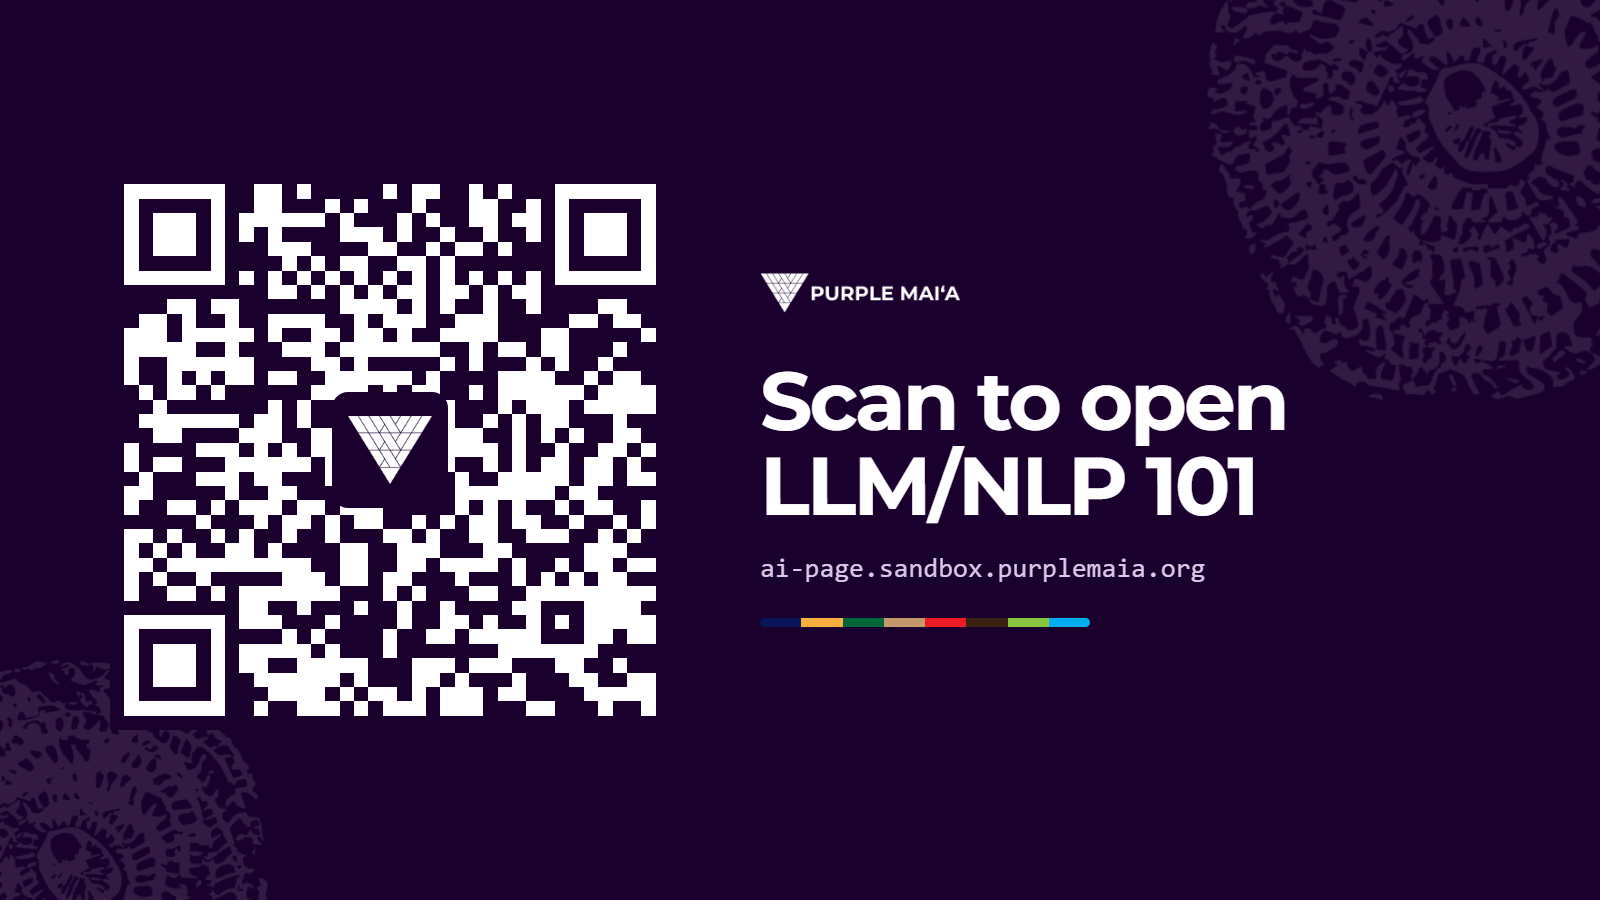
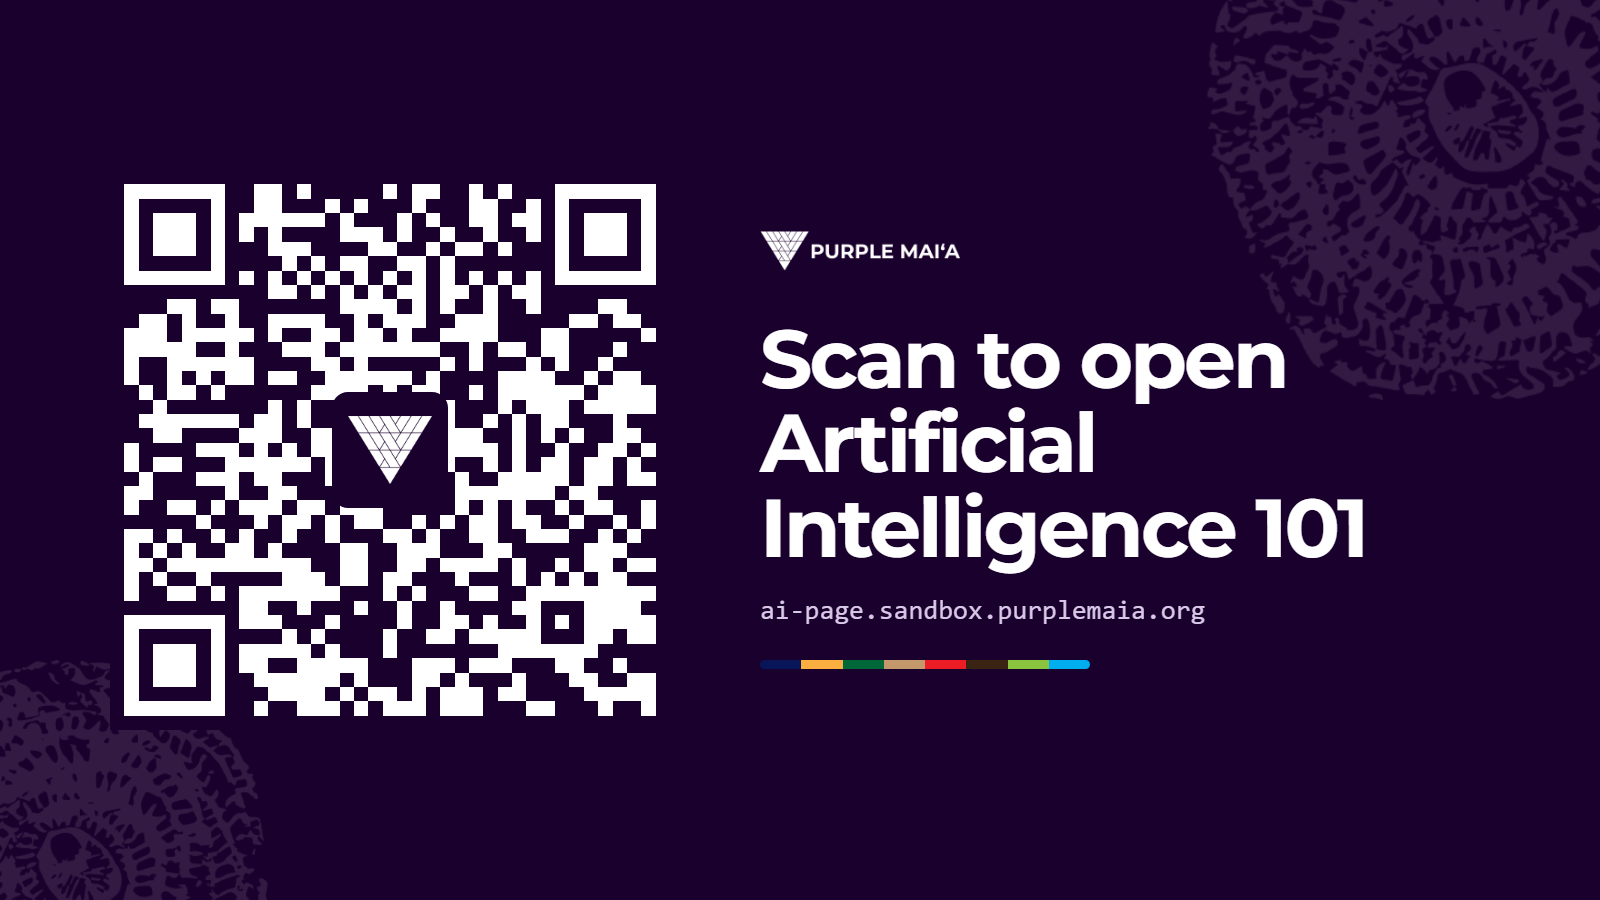
Call the course Artificial Intelligence 101 everywhere
content.js already said "Artificial Intelligence 101" and app.js writes
that into the browser tab, while the static <title>, og:title,
twitter:title and both JSON-LD names still said "LLM/NLP 101". The tab
said one name and every crawler and social preview said another.

Keneth's call: Artificial Intelligence 101. So the eight places in
index.html, the README heading, and the hard-coded fallback in the
feedback mail subject, which is now read from event.shortName the same
way the rest of the page reads it.

The two generated assets carried the old name as rendered pixels, so
both were rebuilt from their sources rather than left to contradict the
page:

  assets/social.png    the og:image. The longer name wraps to two
                       lines and still sits inside the frame
  assets/qr-slide.png  three lines now, same

Both QR images were rescanned afterwards with tools/check-qr.js and
still resolve to the canonical URL. The URL did not change, so qr.svg
and qr.png carry no text and were left alone.

Two dead links went with it, both left by the rebuild: the Resources
entries for the animations and the scripts still pointed at #lessons,
which was the lesson grid. They point at #/ now, the module list. A
third, ctaSecondaryAlt -> #practice, is config the rebuild no longer
renders at all; left in place rather than guessed at.

Not changed, and worth knowing:

  assets/llm-nlp-101.pdf  the filename, and the deck's own slides, both
[…]

Changed region(s): [[0.4688, 0.2489, 0.875, 0.7467]]

diff --git a/index.html b/index.html
@@ -3,7 +3,7 @@
 <head>
 <meta charset="utf-8">
 <meta name="viewport" content="width=device-width, initial-scale=1, viewport-fit=cover">
-<title>LLM/NLP 101 — Purple Maiʻa</title>
+<title>Artificial Intelligence 101 — Purple Maiʻa</title>
 <meta name="description" content="A 101-level walkthrough of what an LLM is, how it generates a response, and where it falls short. Three modules, free and public, no login.">
 <meta name="color-scheme" content="light dark">
 <meta name="theme-color" content="#6b2f96" media="(prefers-color-scheme: light)">
@@ -16,14 +16,14 @@
 <meta property="og:type" content="website">
 <meta property="og:site_name" content="Purple Maiʻa">
 <meta property="og:url" content="https://ai-page.sandbox.purplemaia.org/">
-<meta property="og:title" content="LLM/NLP 101 — Purple Maiʻa">
+<meta property="og:title" content="Artificial Intelligence 101 — Purple Maiʻa">
 <meta property="og:description" content="What an LLM is, how it generates a response, and where it falls short. Three modules, free and public.">
 <meta property="og:image" content="https://ai-page.sandbox.purplemaia.org/assets/social.png">
 <meta property="og:image:width" content="1200">
 <meta property="og:image:height" content="630">
-<meta property="og:image:alt" content="LLM/NLP 101 — a free 101 from Purple Maiʻa">
+<meta property="og:image:alt" content="Artificial Intelligence 101 — a free course from Purple Maiʻa">
 <meta name="twitter:card" content="summary_large_image">
-<meta name="twitter:title" content="LLM/NLP 101 — Purple Maiʻa">
+<meta name="twitter:title" content="Artificial Intelligence 101 — Purple Maiʻa">
 <meta name="twitter:description" content="What an LLM is, how it generates a response, and where it falls short. Three modules, free and public.">
 <meta name="twitter:image" content="https://ai-page.sandbox.purplemaia.org/assets/social.png">
 
@@ -57,7 +57,7 @@
       "@type": "WebSite",
       "@id": "https://ai-page.sandbox.purplemaia.org/#website",
       "url": "https://ai-page.sandbox.purplemaia.org/",
-      "name": "LLM/NLP 101 \u2014 Purple Mai\u02bba",
+      "name": "Artificial Intelligence 101 \u2014 Purple Mai\u02bba",
       "description": "A 101-level walkthrough of what an LLM is, how it generates a response, and where it falls short. Three modules, free and public, no login.",
       "inLanguage": "en",
       "publisher": {
@@ -69,7 +69,7 @@
     {
       "@type": "Course",
       "@id": "https://ai-page.sandbox.purplemaia.org/#course",
-      "name": "LLM/NLP 101",
+      "name": "Artificial Intelligence 101",
       "description": "A 101-level walkthrough of what an LLM is, how it generates a response, and where it falls short. Three modules, free and public, no login.",
       "url": "https://ai-page.sandbox.purplemaia.org/",
       "isAccessibleForFree": true,
@@ -88,7 +88,7 @@
       },
       "hasCourseInstance": {
         "@type": "CourseInstance",
-        "name": "LLM/NLP 101",
+        "name": "Artificial Intelligence 101",
         "courseMode": "blended",
         "courseWorkload": "PT59M"
       },
@@ -135,7 +135,7 @@
   <div class="wrap header-inner">
     <a class="brand" href="#/">
       <span class="brand-mark" aria-hidden="true"></span>
-      <span class="brand-text" data-bind="event.shortName">LLM/NLP 101</span>
+      <span class="brand-text" data-bind="event.shortName">Artificial Intelligence 101</span>
     </a>
 
     <nav class="site-nav" aria-label="Sections">

diff --git a/tools/qr-slide.html b/tools/qr-slide.html
@@ -20,7 +20,7 @@ h1{font-family:Montserrat,sans-serif;font-weight:700;font-size:82px;line-height:
 <div class="qr"><svg xmlns="http://www.w3.org/2000/svg" width="560" height="560" viewBox="0 0 39 39" shape-rendering="crispEdges"><path fill="#1a002d" d="M0 0h39v39H0z"/><path stroke="#ffffff" d="M1 1.5h7m2 0h2m1 0h1m5 0h1m1 0h2m2 0h1m1 0h1m3 0h7M1 2.5h1m5 0h1m2 0h2m3 0h1m1 0h1m3 0h1m3 0h2m2 0h1m1 0h1m5 0h1M1 3.5h1m1 0h3m1 0h1m1 0h6m1 0h1m3 0h1m1 0h1m2 0h2m1 0h2m1 0h1m1 0h3m1 0h1M1 4.5h1m1 0h3m1 0h1m1 0h1m1 0h1m4 0h3m1 0h1m2 0h1m2 0h1m2 0h1m1 0h1m1 0h3m1 0h1M1 5.5h1m1 0h3m1 0h1m3 0h3m4 0h2m2 0h1m1 0h2m1 0h1m3 0h1m1 0h3m1 0h1M1 6.5h1m5 0h1m4 0h1m1 0h1m1 0h2m2 0h2m1 0h1m7 0h1m5 0h1M1 7.5h7m1 0h1m1 0h1m1 0h1m1 0h1m1 0h1m1 0h1m1 0h1m1 0h1m1 0h1m1 0h1m1 0h1m1 0h7M11 8.5h2m1 0h1m1 0h1m1 0h1m1 0h2m1 0h2m1 0h1m1 0h2M4 9.5h2m1 0h2m7 0h4m1 0h1m1 0h1m2 0h1m2 0h1m4 0h2M2 10.5h2m1 0h1m2 0h1m2 0h4m2 0h1m1 0h3m2 0h3m5 0h2m1 0h2M1 11.5h3m1 0h5m1 0h1m2 0h2m1 0h2m1 0h1m2 0h4m3 0h2m5 0h1M1 12.5h5m2 0h1m3 0h3m1 0h7m2 0h1m1 0h2m1 0h2m3 0h1M1 13.5h1m2 0h6m4 0h2m1 0h1m5 0h1m1 0h1m3 0h1m1 0h1m2 0h1M1 14.5h1m2 0h1m1 0h1m1 0h2m1 0h2m2 0h6m1 0h1m4 0h4m2 0h1m1 0h2M2 15.5h1m1 0h2m1 0h1m6 0h4m1 0h1m1 0h2m2 0h1m1 0h6m1 0h4M3 16.5h1m7 0h1m1 0h1m3 0h2m2 0h1m1 0h1m3 0h1m1 0h3m1 0h5M2 17.5h7m1 0h2m1 0h1m2 0h4m1 0h1m1 0h1m2 0h1m1 0h1m1 0h2m3 0h1M3 18.5h2m4 0h3m2 0h3m2 0h2m1 0h4m2 0h1m1 0h1m1 0h1m2 0h2M1 19.5h1m4 0h3m1 0h1m1 0h1m1 0h2m4 0h2m1 0h4m1 0h1m2 0h1m2 0h2m1 0h1M1 20.5h1m1 0h2m3 0h6m1 0h1m3 0h1m1 0h1m1 0h1m2 0h1m1 0h1m1 0h2m1 0h2m1 0h1M2 21.5h1m3 0h3m1 0h2m3 0h3m1 0h1m2 0h1m1 0h1m2 0h5m1 0h2m1 0h2M1 22.5h2m5 0h1m2 0h2m3 0h1m1 0h4m2 0h7m1 0h2M1 23.5h1m2 0h2m1 0h1m1 0h3m1 0h2m1 0h3m5 0h1m1 0h1m1 0h1m2 0h1m1 0h2m2 0h1M6 24.5h1m3 0h1m1 0h2m1 0h1m1 0h2m2 0h1m1 0h1m1 0h2m1 0h2m2 0h1m2 0h1m1 0h1M1 25.5h2m1 0h1m2 0h1m1 0h1m2 0h1m2 0h1m3 0h2m1 0h1m2 0h2m2 0h3m2 0h1m1 0h1M1 26.5h1m1 0h1m1 0h1m2 0h2m1 0h1m4 0h2m2 0h3m3 0h2m5 0h3M1 27.5h2m1 0h10m2 0h2m2 0h2m1 0h4m1 0h1m2 0h1m1 0h2m1 0h2M1 28.5h1m1 0h1m2 0h1m5 0h3m1 0h2m1 0h2m3 0h1m3 0h1m1 0h1m1 0h1m1 0h2M1 29.5h1m2 0h2m1 0h1m1 0h7m3 0h1m1 0h1m3 0h2m2 0h9M9 30.5h2m2 0h1m3 0h1m2 0h1m2 0h1m4 0h2m3 0h4M1 31.5h7m1 0h3m3 0h1m4 0h1m2 0h2m1 0h1m2 0h1m1 0h1m1 0h5M1 32.5h1m5 0h1m4 0h1m1 0h1m4 0h1m2 0h2m1 0h5m3 0h2m1 0h2M1 33.5h1m1 0h3m1 0h1m1 0h5m1 0h1m3 0h1m7 0h7M1 34.5h1m1 0h3m1 0h1m1 0h2m2 0h5m3 0h3m1 0h3m3 0h2m2 0h1M1 35.5h1m1 0h3m1 0h1m2 0h6m1 0h1m3 0h2m1 0h1m3 0h1m3 0h2m2 0h2M1 36.5h1m5 0h1m3 0h4m1 0h1m1 0h2m1 0h1m1 0h3m1 0h2m4 0h5M1 37.5h7m2 0h1m2 0h3m1 0h1m1 0h3m1 0h3m3 0h2m3 0h1m2 0h1"/></svg>
 <div class="pad"><img src="file:///C:/Users/ajsrm/Documents/GitHub/PurpleMaia---AI-Page/assets/pm-mark-white.png"></div></div>
 <div class="r"><img class="lk" src="file:///C:/Users/ajsrm/Documents/GitHub/PurpleMaia---AI-Page/assets/pm-lockup-white.png">
-<h1>Scan to open<br>LLM/NLP 101</h1>
+<h1>Scan to open<br>Artificial Intelligence 101</h1>
 <p class="u">ai-page.sandbox.purplemaia.org</p>
 <div class="strip"><i style="background:#081659"></i><i style="background:#faaf40"></i>
 <i style="background:#006838"></i><i style="background:#c3996b"></i><i style="background:#ec1c24"></i>

diff --git a/tools/feedback-apps-script.js b/tools/feedback-apps-script.js
@@ -15,7 +15,7 @@
    SETUP, about five minutes, once
    ---------------------------------------------------------------
    1.  Go to sheets.new while signed in as keneth@purplemaia.org.
-       Name it "LLM/NLP 101 feedback".
+       Name it "Artificial Intelligence 101 feedback".
 
    2.  Extensions -> Apps Script. Delete the stub Code.gs contents and
        paste this entire file in. Save.
@@ -134,7 +134,7 @@ function doPost(e) {
 // A GET in a browser, so you can confirm the deployment is alive.
 function doGet() {
   return ContentService
-    .createTextOutput('LLM/NLP 101 feedback collector is running.')
+    .createTextOutput('Artificial Intelligence 101 feedback collector is running.')
     .setMimeType(ContentService.MimeType.TEXT);
 }
 
@@ -159,7 +159,7 @@ function weeklyDigest() {
   if (!pending.length) {
     MailApp.sendEmail({
       to: DIGEST_TO,
-      subject: 'LLM/NLP 101 feedback: nothing new this week',
+      subject: 'Artificial Intelligence 101 feedback: nothing new this week',
       body: 'No notes came in since the last digest. The widget is still live.\n\n' +
             'Sheet: ' + _sheet().getParent().getUrl()
     });
@@ -178,7 +178,7 @@ function weeklyDigest() {
 
   MailApp.sendEmail({
     to: DIGEST_TO,
-    subject: 'LLM/NLP 101 feedback: ' + total + ' note' + (total === 1 ? '' : 's') + ' this week' +
+    subject: 'Artificial Intelligence 101 feedback: ' + total + ' note' + (total === 1 ? '' : 's') + ' this week' +
              (skipped ? ' (' + skipped + ' not shown)' : ''),
     htmlBody: _buildEmail(shown, url, skipped),
     body: _buildPlain(shown, url)
@@ -197,7 +197,7 @@ function _buildDoc(notes, total, skipped) {
   var doc  = DocumentApp.create('LLM-NLP 101 feedback, week of ' + today);
   var b    = doc.getBody();
 
-  b.appendParagraph('LLM/NLP 101 feedback').setHeading(DocumentApp.ParagraphHeading.TITLE);
+  b.appendParagraph('Artificial Intelligence 101 feedback').setHeading(DocumentApp.ParagraphHeading.TITLE);
   b.appendParagraph((total || notes.length) + ' note' + ((total || notes.length) === 1 ? '' : 's') +
                     ', collected up to ' + today +
                     (skipped ? '  ·  ' + skipped + ' not shown here, see the Sheet' : ''))

diff --git a/content.js b/content.js
@@ -3,7 +3,7 @@
    Everything on the page is generated from the object below.
    Save, refresh, done. See README.md for a field-by-field guide.
 
-   Structure follows the LLM/NLP 101 deck:
+   Structure follows the slide deck (assets/llm-nlp-101.pdf):
      Module 1  Overview            (10-12 min)
      Module 2  How an LLM works    (20-25 min)
      Module 3  Using LLMs well     (15-20 min)
@@ -1653,8 +1653,8 @@ window.SITE = {
          video: "file:assets/<name>.mp4" — the placeholder disappears on its own. */
       group: "Purple Maiʻa originals",
       items: [
-        { label: "Short-form animations — in production", url: "#lessons", desc: "Animated from the LLM/NLP 101 scripts. Until each lands, its lesson carries a labelled stand-in from another channel." },
-        { label: "Scripts these are built from", url: "#lessons", desc: "Every lesson's takeaways are the script. Open a lesson to read the one you need." }
+        { label: "Short-form animations — in production", url: "#/", desc: "Animated from this course’s scripts. Until each lands, its lesson carries a labelled stand-in from another channel." },
+        { label: "Scripts these are built from", url: "#/", desc: "Every lesson's takeaways are the script. Open a lesson to read the one you need." }
       ]
     },
     {

diff --git a/tools/make-qr.js b/tools/make-qr.js
@@ -63,7 +63,7 @@ h1{font-family:Montserrat,sans-serif;font-weight:700;font-size:82px;line-height:
 </style></head><body><div class="s"><div class="tex"></div>
 <div class="qr">${light}<div class="pad"><img src="file:///${A}/pm-mark-white.png"></div></div>
 <div class="r"><img class="lk" src="file:///${A}/pm-lockup-white.png">
-<h1>Scan to open<br>LLM/NLP 101</h1>
+<h1>Scan to open<br>Artificial Intelligence 101</h1>
 <p class="u">${SITE_URL.replace(/^https?:\/\//, '').replace(/\/$/, '')}</p>
 <div class="strip"><i style="background:#081659"></i><i style="background:#faaf40"></i>
 <i style="background:#006838"></i><i style="background:#c3996b"></i><i style="background:#ec1c24"></i>

diff --git a/assets/app.js b/assets/app.js
@@ -2260,7 +2260,7 @@
     var to = String(FB.mailto || '').split(',').map(function (a) { return encodeURIComponent(a.trim()); })
                .filter(Boolean).join(',');
     return 'mailto:' + to +
-           '?subject=' + encodeURIComponent('LLM/NLP 101 feedback, ' + p.kind) +
+           '?subject=' + encodeURIComponent(((S.event || {}).shortName || 'Artificial Intelligence 101') + ' feedback, ' + p.kind) +
            '&body=' + encodeURIComponent(body.slice(0, 1800));
   }
 

diff --git a/tools/social-card.html b/tools/social-card.html
@@ -50,7 +50,7 @@
 <div class="card">
   <div class="tex"></div>
   <img class="logo" src="../assets/pm-lockup-white.png" alt="">
-  <h1>LLM/NLP 101</h1>
+  <h1>Artificial Intelligence 101</h1>
   <p class="sub">Large Language Models · Natural Language Processing</p>
   <!-- the logo's own eight colours, in logo order -->
   <div class="strip">

diff --git a/README.md b/README.md
@@ -1,4 +1,4 @@
-# LLM/NLP 101 — Purple Maiʻa staff learning page
+# Artificial Intelligence 101 — Purple Maiʻa staff learning page
 
 A single static page for hosting workshop material: lessons, video recordings,
 a prompt library, a glossary, an agenda and links — plus a quiz under every
